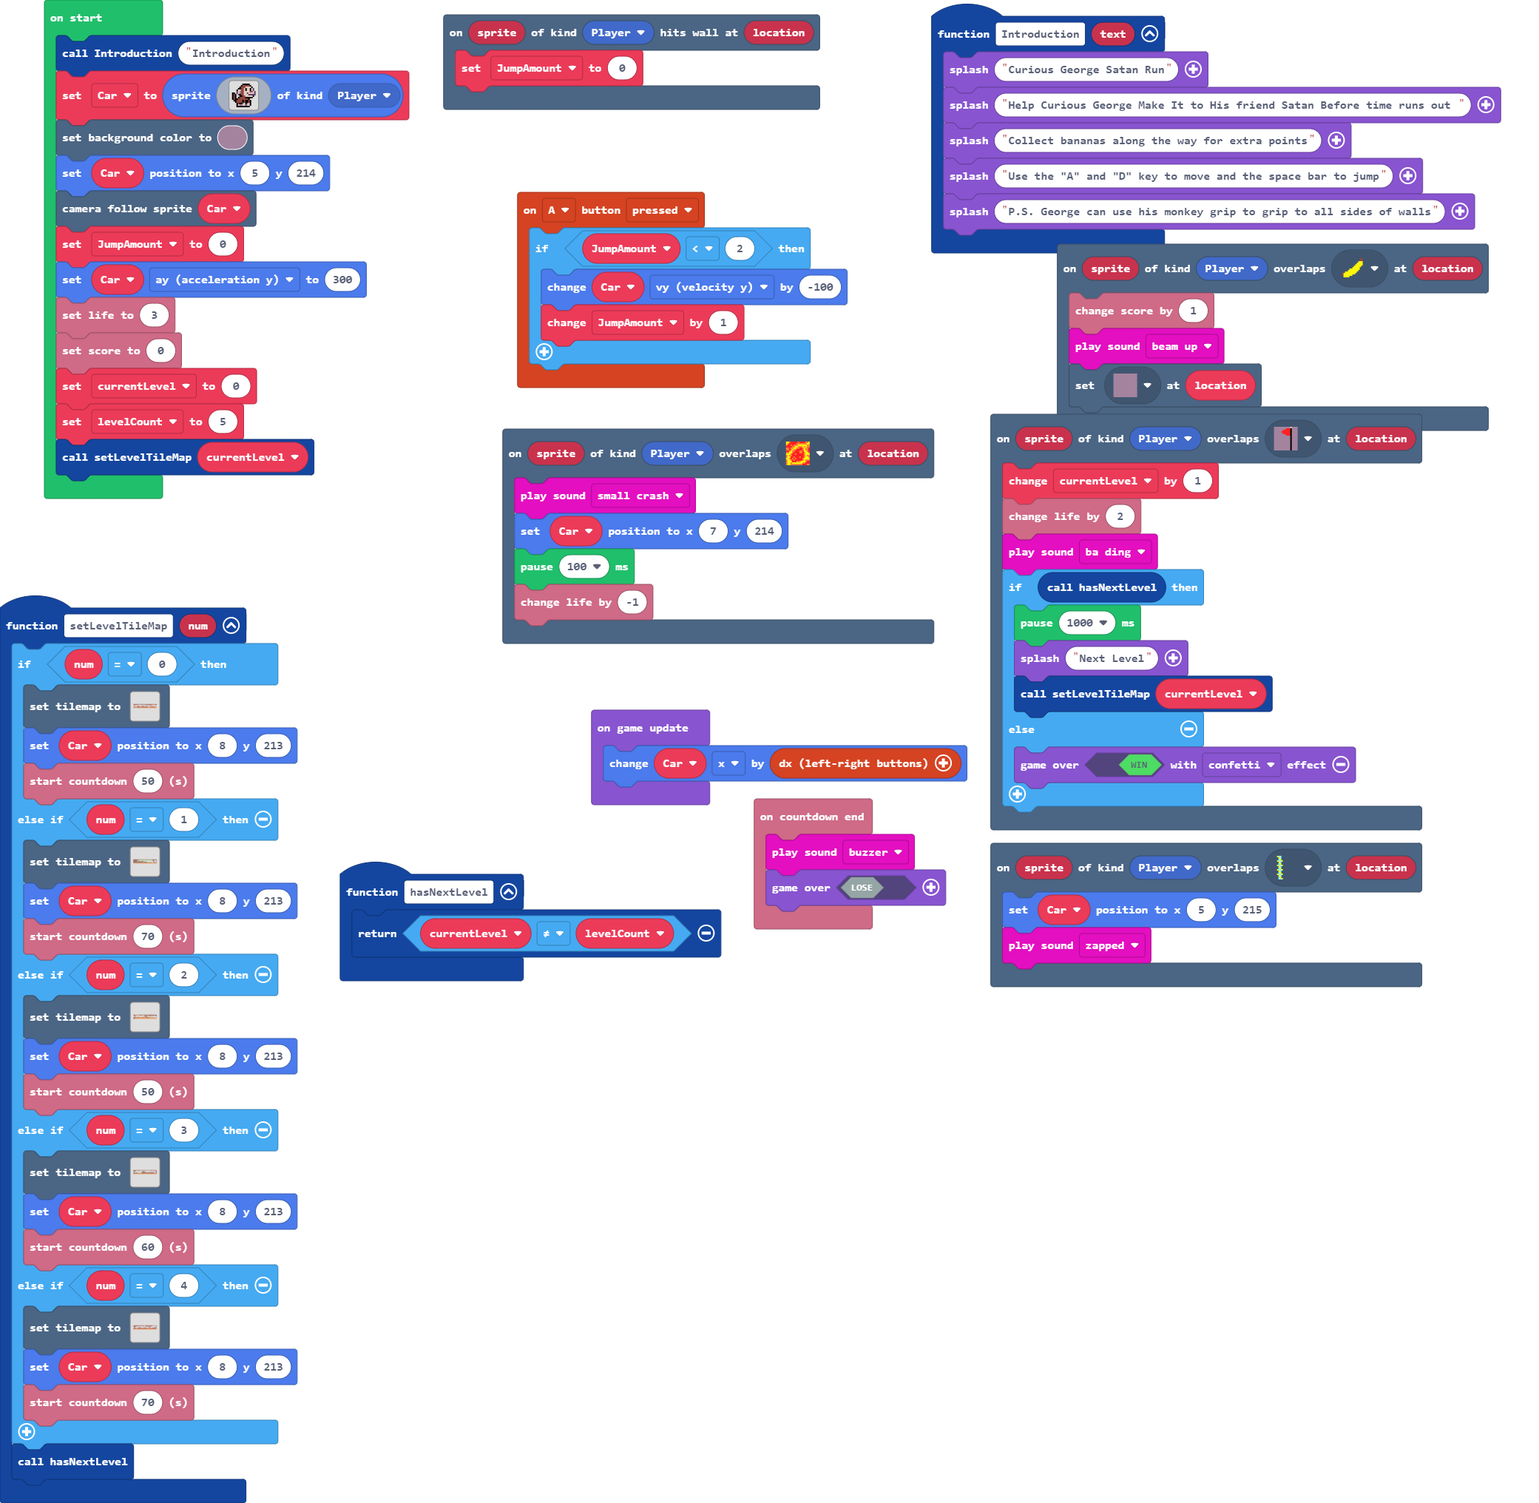
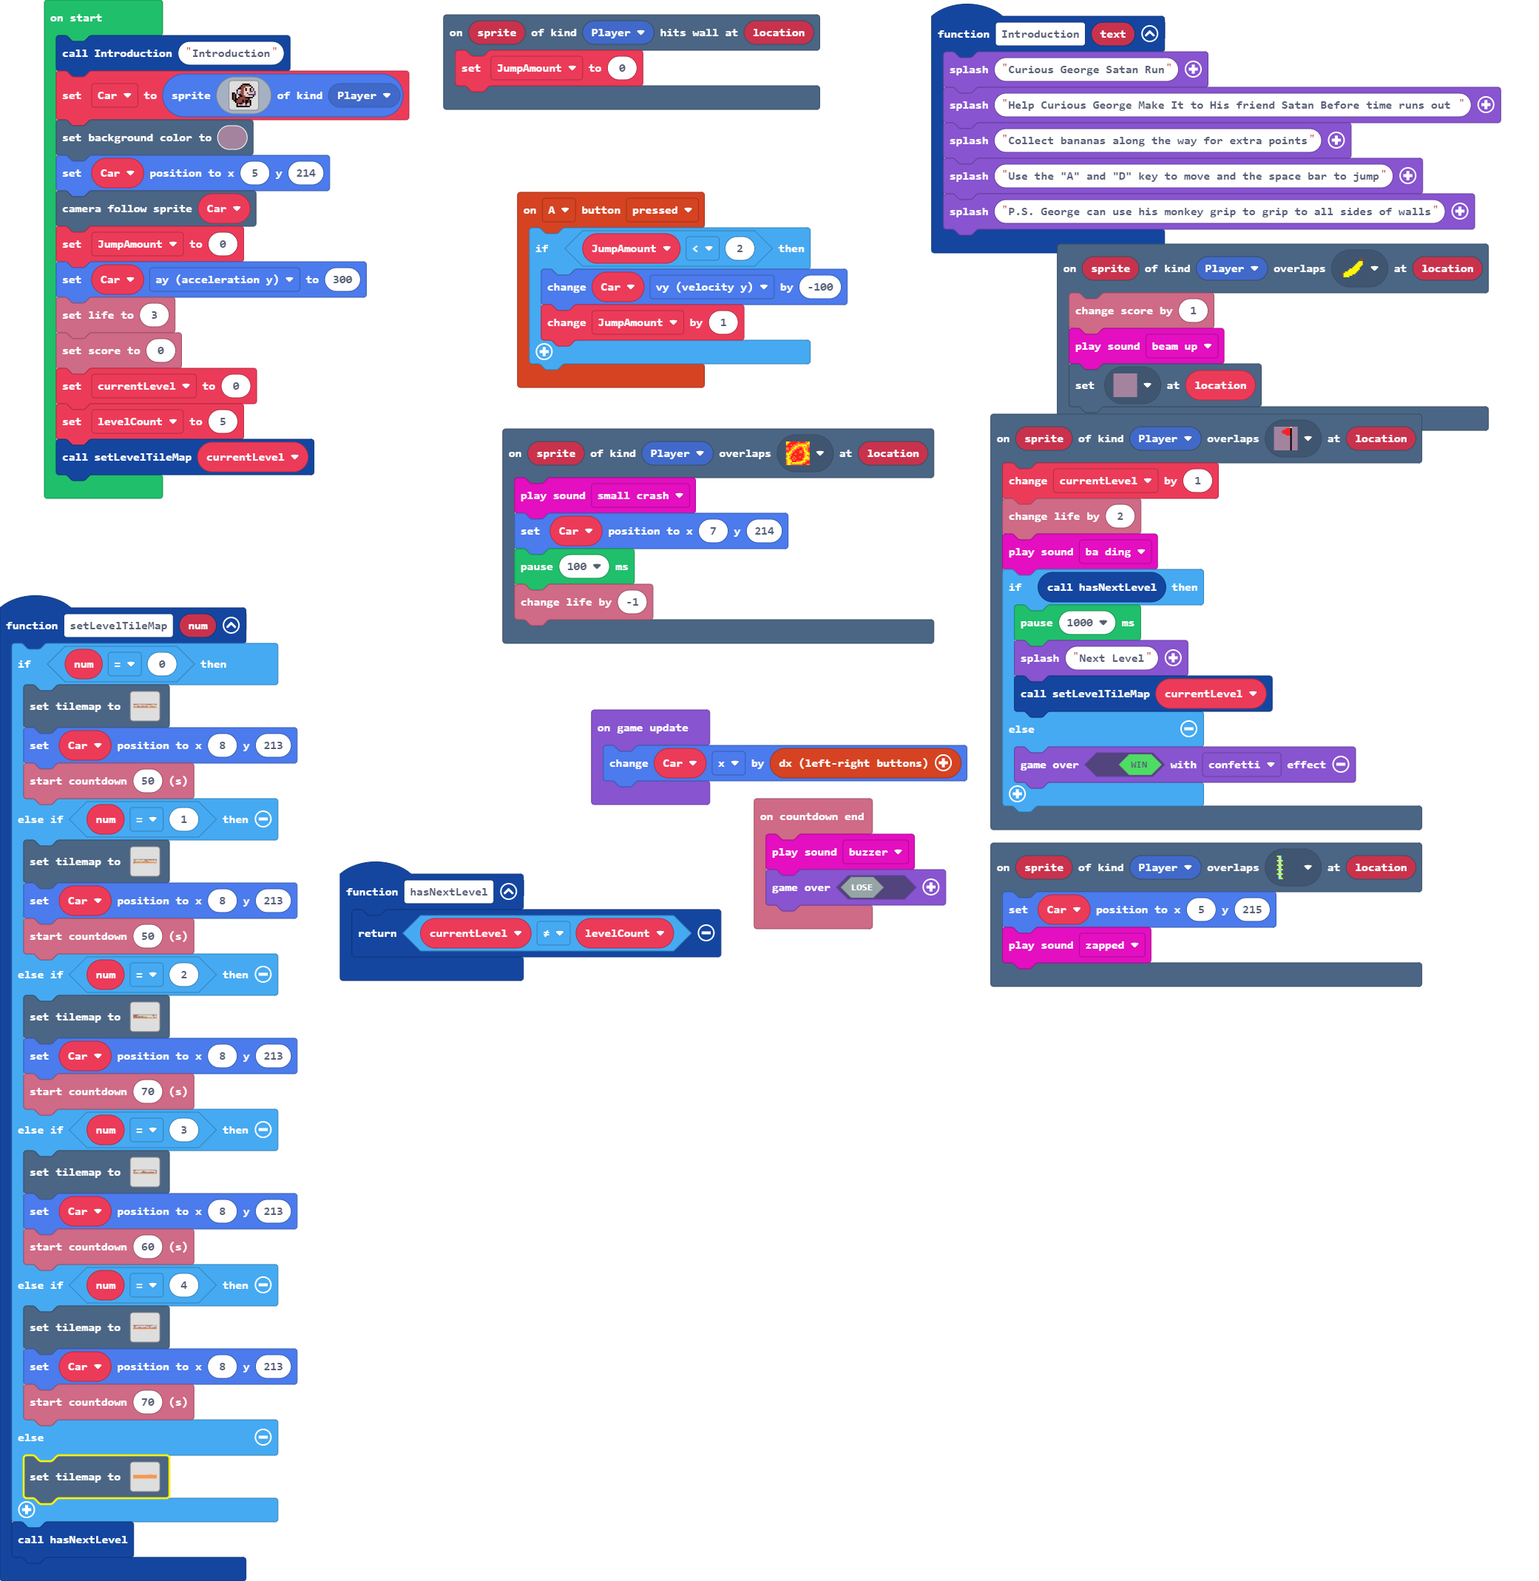
Update main.blocks, main.ts, tilemap.g.jres, tilemap.g.ts

diff --git a/tilemap.g.ts b/tilemap.g.ts
@@ -5,8 +5,6 @@ namespace myTiles {
     //% fixedInstance jres blockIdentity=images._tile
     export const tile6 = image.ofBuffer(hex``);
     //% fixedInstance jres blockIdentity=images._tile
-    export const tile8 = image.ofBuffer(hex``);
-    //% fixedInstance jres blockIdentity=images._tile
     export const tile1 = image.ofBuffer(hex``);
     //% fixedInstance jres blockIdentity=images._tile
     export const tile3 = image.ofBuffer(hex``);
@@ -19,8 +17,6 @@ namespace myTiles {
     //% fixedInstance jres blockIdentity=images._tile
     export const tile11 = image.ofBuffer(hex``);
     //% fixedInstance jres blockIdentity=images._tile
-    export const tile10 = image.ofBuffer(hex``);
-    //% fixedInstance jres blockIdentity=images._tile
     export const tile2 = image.ofBuffer(hex``);
     //% fixedInstance jres blockIdentity=images._tile
     export const tile4 = image.ofBuffer(hex``);
@@ -32,6 +28,14 @@ namespace myTiles {
     export const tile15 = image.ofBuffer(hex``);
     //% fixedInstance jres blockIdentity=images._tile
     export const tile5 = image.ofBuffer(hex``);
+    //% fixedInstance jres blockIdentity=images._tile
+    export const tile10 = image.ofBuffer(hex``);
+    //% fixedInstance jres blockIdentity=images._tile
+    export const tile8 = image.ofBuffer(hex``);
+    //% fixedInstance jres blockIdentity=images._tile
+    export const tile16 = image.ofBuffer(hex``);
+    //% fixedInstance jres blockIdentity=images._tile
+    export const tile17 = image.ofBuffer(hex``);
 
     helpers._registerFactory("tilemap", function(name: string) {
         switch(helpers.stringTrim(name)) {
@@ -111,44 +115,6 @@ namespace myTiles {
 . . . . . . . . . . . . . . . . 
 . . . . . . . . . . . . . . . . 
 `, [myTiles.transparency16], TileScale.Sixteen);
-            case "level2":
[1 lines of base64/hex data omitted]
-....................................................................................................
-....................................................................................................
-.......................................................22...........................................
-.......................22.............................22....222.....................................
-......................22..........222....222....222.................................................
-....................................................................................................
-................222............................................222..................................
-..............2...............222...................................................................
-......................................222..........2.......222...2222...............................
-...........22.....................................22................................................
-....................2......22....................222..2222..........222.............................
-.........2.....................................2222222..................222.........................
-........22.................................................................2.2222.2222.2222.22222222
-.......222.............222..........................................................................
-2222222222222222222222222222222222222222222222222222222222222222222222222222222222222222222222222222
-2222222222222222222222222222222222222222222222222222222222222222222222222222222222222222222222222222
-`, [myTiles.transparency16,myTiles.tile1,myTiles.tile3,myTiles.tile7,sprites.dungeon.darkGroundNorthWest1,sprites.dungeon.floorLight0,sprites.dungeon.hazardLava0,myTiles.tile12,myTiles.tile9,myTiles.tile8,myTiles.tile2,sprites.builtin.forestTiles0], TileScale.Sixteen);
-            case "level7":
[1 lines of base64/hex data omitted]
-....................................................................................................
-....................................................................................................
-.............................................................................................2222222
-......................222.2...2...2...2...2...2...2...2...2...2...2...2...2...2...2...2...2..2222222
-....................2...............................................................................
-..................2.................................................................................
-...............2....................................................................................
-.............2......................................................................................
-....................................................................................................
-...........2........................................................................................
-.........2..........................................................................................
-.......2.................................................................2.....2....2...............
-......2...22..........22..22.....22......222.....22...222...222.......2.....2....2...2..............
-....22.......222...22........22......22.......2222...............222...................2..2.........
-222.................................................................................................
-222.................................................................................................
-`, [myTiles.transparency16,myTiles.tile10,myTiles.tile1,myTiles.tile3,myTiles.tile12,myTiles.tile9,myTiles.tile7,sprites.dungeon.darkGroundNorthWest1,sprites.dungeon.hazardLava0,sprites.dungeon.greenOuterNorth0,sprites.builtin.forestTiles0,myTiles.tile13], TileScale.Sixteen);
             case "level10":
             case "level10":return tiles.createTilemap(hex`1000100000000000000000000000000000000000000000000000000000000000000000000000000000000000000000000000000000000000000000000000000000000000000000000000000000000000000000000000000000000000000000000000000000000000000000000000000000000000000000000000000000000000000000000000000000000000000000000000000000000000000000000000000000000000000000000000000000000000000000000000000000000000000000000000000000000000000000000000000000000000000000000000000000000000000000000000000000000000000000000000000000000000000000000000000000000000`, img`
 . . . . . . . . . . . . . . . . 
@@ -282,6 +248,44 @@ namespace myTiles {
 222222..............................................................................................
 2222222222222222222222222222222222222222222222222222222222222222222222222222222222222222222222222222
 `, [myTiles.transparency16,myTiles.tile1,myTiles.tile3,myTiles.tile12,myTiles.tile9,myTiles.tile7,sprites.dungeon.darkGroundNorthWest1,sprites.dungeon.floorLight0,sprites.dungeon.hazardLava0,sprites.dungeon.collectibleInsignia,myTiles.tile2,myTiles.tile15], TileScale.Sixteen);
+            case "level7":
[1 lines of base64/hex data omitted]
+....................................................................................................
+....................................................................................................
+.............................................................................................2222222
+......................222.2...2...2...2...2...2...2...2...2...2...2...2...2...2...2...2...2..2222222
+....................2...............................................................................
+..................2.................................................................................
+...............2....................................................................................
+.............2......................................................................................
+....................................................................................................
+...........2........................................................................................
+.........2..........................................................................................
+.......2.................................................................2.....2....2...............
+......2...22..........22..22.....22......222.....22...222...222.......2.....2....2...2..............
+....22.......222...22........22......22.......2222...............222...................2..2.........
+222.................................................................................................
+222.................................................................................................
+`, [myTiles.transparency16,myTiles.tile10,myTiles.tile1,myTiles.tile3,myTiles.tile12,myTiles.tile9,myTiles.tile7,sprites.dungeon.darkGroundNorthWest1,sprites.dungeon.hazardLava0,sprites.dungeon.greenOuterNorth0,sprites.builtin.forestTiles0,myTiles.tile13], TileScale.Sixteen);
+            case "level2":
[1 lines of base64/hex data omitted]
+....................................................................................................
+....................................................................................................
+.......................................................22...........................................
+.......................22.............................22....222.....................................
+......................22..........222....222....222.................................................
+....................................................................................................
+................222............................................222..................................
+..............2...............222...................................................................
+......................................222..........2.......222...2222...............................
+...........22.....................................22................................................
+....................2......22....................222..2222..........222.............................
+.........2.....................................2222222..................222.........................
+........22.................................................................2.2222.2222.2222.22222222
+.......222.............222..........................................................................
+2222222222222222222222222222222222222222222222222222222222222222222222222222222222222222222222222222
+2222222222222222222222222222222222222222222222222222222222222222222222222222222222222222222222222222
+`, [myTiles.transparency16,myTiles.tile1,myTiles.tile3,myTiles.tile7,sprites.dungeon.darkGroundNorthWest1,sprites.dungeon.floorLight0,sprites.dungeon.hazardLava0,myTiles.tile12,myTiles.tile9,myTiles.tile8,myTiles.tile2,sprites.builtin.forestTiles0], TileScale.Sixteen);
             case "level1":
[1 lines of base64/hex data omitted]
 ....................................................................................................
@@ -302,7 +306,7 @@ namespace myTiles {
 2222222222222222222222222222222222222222222222222222222222222222222222222222222222222222222222222222
 `, [myTiles.transparency16,sprites.dungeon.floorLightMoss,sprites.dungeon.stairLarge,sprites.dungeon.stairWest,sprites.dungeon.darkGroundNorthWest1,sprites.dungeon.hazardLava0,sprites.dungeon.purpleOuterNorth0,myTiles.tile6,myTiles.tile8,myTiles.tile1,myTiles.tile3,myTiles.tile9,myTiles.tile12,myTiles.tile7,sprites.builtin.forestTiles0,myTiles.tile4], TileScale.Sixteen);
             case "level9":
[2 lines of base64/hex data omitted]
 ....................................................................................................
 ....................................................................................................
 ...................................2.............2.......2..2.....2...2...2...........2.2...........
@@ -319,7 +323,26 @@ namespace myTiles {
 ....2...............................................................................................
 2222................................................................................................
 2222................................................................................................
-`, [myTiles.transparency16,myTiles.tile1,myTiles.tile3,myTiles.tile12,myTiles.tile9,myTiles.tile7,myTiles.tile5,myTiles.tile11,myTiles.tile10,sprites.dungeon.darkGroundNorthWest1,sprites.dungeon.hazardLava0,sprites.dungeon.floorDarkDiamond,sprites.dungeon.doorLockedNorth,sprites.builtin.forestTiles0,myTiles.tile14], TileScale.Sixteen);
+`, [myTiles.transparency16,myTiles.tile1,myTiles.tile3,myTiles.tile12,myTiles.tile9,myTiles.tile7,myTiles.tile5,myTiles.tile11,sprites.dungeon.darkGroundNorthWest1,sprites.dungeon.hazardLava0,sprites.dungeon.floorDarkDiamond,sprites.dungeon.doorLockedNorth,sprites.builtin.forestTiles0,myTiles.tile14,myTiles.tile8], TileScale.Sixteen);
+            case "level16":
+            case "level16":return tiles.createTilemap(hex`6400100000000000000000000000000000000000000000000000000000000000000000000000000000000000000000000000000000000000000000000000000000000000000000000000000000000000000000000000000000000000000000000000000000000000000000000000000000000000000000000000000000000000000000000000000000000000000000000000000000000000000000000000000000000000000000000000000000000000000000000000000000000000000000000000000000000000000000000101010000000000000000000000000000000000000000000000000000000000000000000000000000000000000000000000000000000000000000000000000000000000000000000000000000000000000000000000000000000000000000000000000001010000000000000000000000000000000000000000000000000000000000000000000000000000000000000000000000000000000000000000000000000000000000000000000000000000000000000000000000000000000000000000000000000000010000000000000000000000000000000000000000000000000000000000000000000000000000000000000000000000000000000000000000000000000000000000000000000000000000000000000000000000000000000000000000000000000000000000000000000000000000000000000000000000000000000000000000000000000000000000000000000000000000000000000000000000000000000000000000000000000000000000000000000000000000000000000000000000000000000000000000000000000000000000000000000000000000000000000000000000000000000000000000000000000000000000000000000000000000000000000000000000000000000000000000000000000000000000000000000000000000000000000000000000000000000000000000000000000000000000000000000000000000000000000000000000000000000000000000000000000000000000000000000000000000000000000000000000000000000000000000000000000000000000000000000000000000000000000000000000000000000000000000000000000000000000000000000000000000000000000000000000000000000000000000000000000000000000000000000000000000000000000000000000000000000000000000000000000000000000000000000000000000000000000000000000000000000000000000000000000000000000000000000000000000000000000000000000000000000000000000000000000000000000000000000000000000000000000000000000000000000000000000000000000000000000000000000000000000000000000000000000000000000000000000000000000000000000000000000000000000000000000000000000000000000000000000000000000000000000000000000000000000000000000000000000000000000000000000000000000000000000000000000000000000000000000000000000000000000000000000000000000000000000000000000000000000000000000000000000000000000000000000000000000000000000000000000000000000000000000000000000000000000000000000000000000000000000000000000000000000000000000000000000000000000000000000000000000000000000000000000000000000000000000000000000000000000000000000000000000000000000000000000000000000000000000000000000000000000000000000000000000000000000000000000000000000000000000000000000000000000000000000000000000000000000000000000000000000000000000000000000000000000000000000000000000000000000000000000000000000000000000000000000000000000000000000000000000000000000000000000000000000000000000000000000000000000000000000000000000000000000000000000000000000000000000000000000000000000000000000000000000000000000000000000000000000000000000000000000000000000000000000000000000000000000000000000000000000000000000000000000000000000000000000000000000000000000000000000000000000000000000000000000`, img`
+....................................................................................................
+....................................................................................................
+....................................................................................................
+....................................................................................................
+....................................................................................................
+....................................................................................................
+....................................................................................................
+....................................................................................................
+....................................................................................................
+....................................................................................................
+....................................................................................................
+....................................................................................................
+....................................................................................................
+....................................................................................................
+....................................................................................................
+....................................................................................................
+`, [myTiles.transparency16,sprites.dungeon.darkGroundNorthWest1], TileScale.Sixteen);
         }
         return null;
     })
@@ -329,8 +352,6 @@ namespace myTiles {
             case "transparency16":return transparency16;
             case "myTile4":
             case "tile6":return tile6;
-            case "myTile6":
-            case "tile8":return tile8;
             case "myTile":
             case "tile1":return tile1;
             case "myTile1":
@@ -343,8 +364,6 @@ namespace myTiles {
             case "tile7":return tile7;
             case "myTile9":
             case "tile11":return tile11;
-            case "myTile8":
-            case "tile10":return tile10;
             case "myTile0":
             case "tile2":return tile2;
             case "myTile2":
@@ -357,6 +376,14 @@ namespace myTiles {
             case "tile15":return tile15;
             case "myTile3":
             case "tile5":return tile5;
+            case "myTile8":
+            case "tile10":return tile10;
+            case "myTile6":
+            case "tile8":return tile8;
+            case "myTile12":
+            case "tile16":return tile16;
+            case "myTile13":
+            case "tile17":return tile17;
         }
         return null;
     })

diff --git a/main.ts b/main.ts
@@ -19,13 +19,13 @@ function setLevelTileMap (num: number) {
         Car.setPosition(8, 213)
         info.startCountdown(50)
     } else if (num == 1) {
-        tiles.setTilemap(tilemap`level3`)
-        Car.setPosition(8, 213)
-        info.startCountdown(70)
-    } else if (num == 2) {
         tiles.setTilemap(tilemap`level2`)
         Car.setPosition(8, 213)
         info.startCountdown(50)
+    } else if (num == 2) {
+        tiles.setTilemap(tilemap`level3`)
+        Car.setPosition(8, 213)
+        info.startCountdown(70)
     } else if (num == 3) {
         tiles.setTilemap(tilemap`level7`)
         Car.setPosition(8, 213)
@@ -34,6 +34,8 @@ function setLevelTileMap (num: number) {
         tiles.setTilemap(tilemap`level9`)
         Car.setPosition(8, 213)
         info.startCountdown(70)
+    } else {
+        tiles.setTilemap(tilemap`level16`)
     }
     hasNextLevel()
 }
